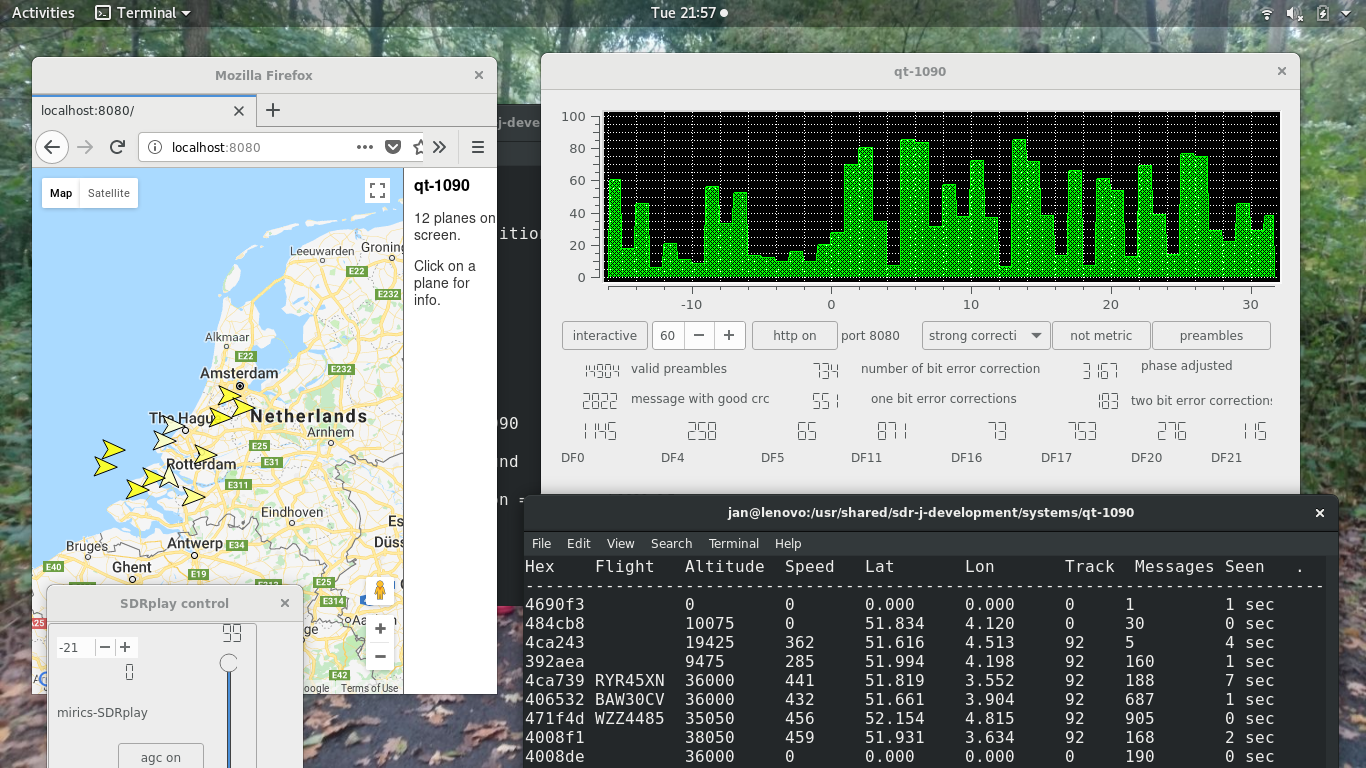
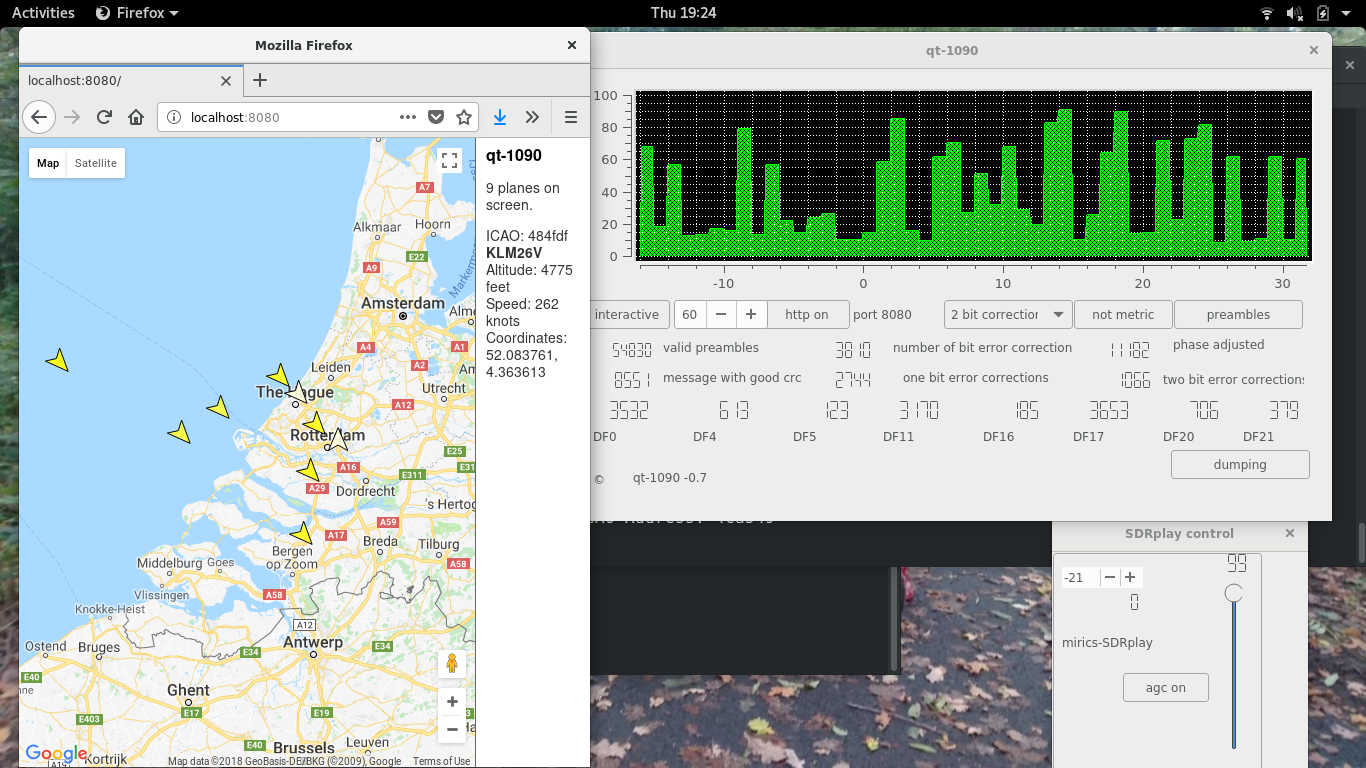
added simple dump facility

diff --git a/qt-1090.cpp b/qt-1090.cpp
@@ -79,14 +79,15 @@ int	i;
 	metric		= false;
 	interactive	= false;
 	interactive_ttl	= INTERACTIVE_TTL;
+	dumpfilePointer	= NULL;
 
 //	Allocate the "working" vector
-	data_len = DATA_LEN + (FULL_LEN - 1) * 4;
+	data_len	= DATA_LEN + (FULL_LEN - 1) * 4;
 	magnitudeVector	= new uint16_t [data_len / 2];
 
 //	Allocate the ICAO address cache.
 	icao_cache	= new icaoCache	();
-	aircrafts	= NULL;
+	planeList	= NULL;
 	interactive_last_update = 0;
 
 	screenTimer. setInterval (2000);
@@ -121,6 +122,8 @@ int	i;
 	connect (show_preamblesButton, SIGNAL (clicked (void)),
 		 this, SLOT (handle_show_preamblesButton (void)));
 
+	connect (dumpButton, SIGNAL (clicked (void)),
+	         this, SLOT (handle_dumpButton (void)));
 	pthread_create (&reader_thread,
 	                NULL,
 	                readerThreadEntryPoint,
@@ -423,7 +426,7 @@ bool	phaseCorrected = false;
  *	interface is enabled.
  */
 	      if (interactive || stat_http_requests > 0) 
-	         aircrafts = interactiveReceiveData (aircrafts, &mm);
+	         planeList = interactiveReceiveData (planeList, &mm);
 /*
  *	In non-interactive way, display messages on standard output.
  */
@@ -454,9 +457,11 @@ int16_t lbuf [DATA_LEN / 2];
 //
 //	Timer driven
 void	qt1090::updateScreen (void) {
-	   aircrafts	= removeStaleAircrafts (aircrafts, interactive_ttl);
+	   planeList	= removeStaleAircrafts (planeList,
+	                                        interactive_ttl,
+	                                        dumpfilePointer);
 	   if (interactive) 
-	      showPlanes (aircrafts, metric);
+	      showPlanes (planeList, metric);
 }
 //
 ///////////////////////////////////////////////////////////////////////
@@ -527,7 +532,7 @@ void	qt1090::handle_errorhandlingCombo (const QString &s) {
 	if (s == "no correction")
 	   handle_errors =  NO_ERRORFIX;
 	else
-	if (s == "normal correction")
+	if (s == "1 bit correction")
 	   handle_errors = NORMAL_ERRORFIX;
 	else
 	   handle_errors = STRONG_ERRORFIX;
@@ -577,7 +582,7 @@ void    qt1090::handleRequest (QHttpRequest *request,
 	stat_http_requests ++;
 
 	if (request -> path () == "/data.json")
-	   sendPlaneData (response, aircrafts);
+	   sendPlaneData (response, planeList);
 	else
 	if (request -> path () == "/")
 	   sendMap (response);
@@ -697,3 +702,23 @@ deviceHandler	*inputDevice	= NULL;
 	return new  deviceHandler ();
 }
 
+void	qt1090::handle_dumpButton (void) {
+
+	if (dumpfilePointer != 0) {
+	   fclose (dumpfilePointer);
+	   dumpfilePointer	= NULL;
+	   dumpButton	-> setText ("dump");
+	   return;
+	}
+
+	QString file = QFileDialog::getSaveFileName (this,
+	                                             tr ("Open file ..."),
+	                                             QDir::homePath (),
+	                                             tr ("txt data (*.txt)"));
+	file		= QDir::toNativeSeparators (file);
+	dumpfilePointer	= fopen (file. toLatin1 (). data (), "w");
+	if (dumpfilePointer != NULL)
+	   dumpButton	-> setText ("dumping");
+}
+
+	

diff --git a/aircraft-handler.cpp b/aircraft-handler.cpp
@@ -142,6 +142,10 @@ double cprDlonFunction (double lat, int isodd) {
 	seen		= time (NULL);
 	messages	= 0;
 	next		= NULL;
+	entryTime	= time (NULL);
+	lon_in		= 0.0;
+	lat_in		= 0.0;
+	altitude_in	= 0;
 }
 
 	aircraft::~aircraft (void) {}
@@ -217,6 +221,8 @@ void	aircraft::fillData (message *mm) {
 
 	if (mm -> msgtype == 0 ||
 	    mm -> msgtype == 4 || mm -> msgtype == 20) {
+	   if (this -> altitude_in == 0)
+	      this -> altitude_in = mm -> altitude;
 	   this -> altitude = mm -> altitude;
 	}
 	else
@@ -241,6 +247,10 @@ void	aircraft::fillData (message *mm) {
 //	the position.
 	      if (abs (this -> even_cprtime - this -> odd_cprtime) <= 10000) {
 	         decodeCPR ();
+	         if ((lat_in == 0) || (lon_in == 0)) {
+	           lat_in = lat;
+	           lon_in = lon;
+	         }
 	      }
 	   }	
 	   else
@@ -311,7 +321,8 @@ double rlat1 = AirDlat1 * (cprModFunction (j, 59) + lat1 / 131072);
 /* When in interactive mode If we don't receive new nessages within
  * wtime seconds we remove the aircraft from the list.
  */
-aircraft *removeStaleAircrafts (aircraft *list, int wtime) {
+aircraft *removeStaleAircrafts (aircraft *list,
+	                        int wtime, FILE *dumpfilePointer) {
 aircraft *currentPlane = list;
 aircraft *prev = NULL;
 time_t now = time(NULL);
@@ -321,7 +332,12 @@ time_t now = time(NULL);
 	      aircraft *next = currentPlane -> next;
 //	Remove the element from the linked list, be careful
 //	when removing the first element. */
+	      if ((currentPlane -> lon_in != 0) &&
+	          (currentPlane -> lat_in != 0)) 
+	         currentPlane -> showPlaneonExit (dumpfilePointer);
+	                 
 	      delete currentPlane;
+	   
 	      if (prev == NULL)
 	         list = next;
 	      else
@@ -350,13 +366,20 @@ int speed	= this -> speed;
 	        lat, lon, track, messages, (int)(now - seen));
 }
 
+void	aircraft:: showPlaneonExit (FILE *dumpfilePointer) {
+	if (dumpfilePointer != NULL) {
+	   std::string time_in	= ctime (&entryTime);
+	   const time_t currentTime = time (NULL);
+	   std::string time_out = ctime (&currentTime);
+	   fprintf (dumpfilePointer,
+	            "Plane  %-6s %-8s \n", hexaddr, flight);
+	   fprintf (dumpfilePointer, "%-9d %-7.03f %-7.03f  entered at %s",
+	            altitude_in, lat_in, lon_in, time_in. c_str ());
+	   fprintf (dumpfilePointer, "%-9d %-7.03f %-7.03f  left at %s \n",
+	            altitude, lat, lon, time_out. c_str ());
+	}
+}
 
-//static
-//int     getTermRows (void) {
-//        struct winsize w;
-//        ioctl (STDOUT_FILENO, TIOCGWINSZ, &w);
-//        return w. ws_row;
-//}
 
 #include	<stdlib.h>
 
@@ -393,7 +416,6 @@ int count = 0;
 	   count++;
 	}
 }
-
 
 QString	aircraft::toJson (void) {
 char buf [512];

diff --git a/qt-1090.h b/qt-1090.h
@@ -35,6 +35,7 @@
 #include	<QMessageBox>
 #include	<QCloseEvent>
 #include	<QTimer>
+#include	<stdio.h>
 #include	"qhttpserverfwd.h"
 #include	<qhttpserver.h>
 #include	<qhttprequest.h>
@@ -81,6 +82,7 @@ private:
 	int		correlationCounter;
 	bool		show_preambles;
 	int		bitstoShow;
+	FILE		*dumpfilePointer;
 public:
 	icaoCache	*icao_cache;
 	bool		check_crc;	/* Only display messages with good CRC. */
@@ -89,7 +91,7 @@ public:
 	int		debug;		/* Debugging mode. */
 
 //	Interactive mode */
-	aircraft	*aircrafts;
+	aircraft	*planeList;
 	long long interactive_last_update;  /* Last screen update in milliseconds */
 	void            sendMap         (QHttpResponse *);
         void            sendPlaneData   (QHttpResponse *, aircraft *);
@@ -114,7 +116,7 @@ private slots:
 	void	handleRequest		(QHttpRequest *,
 	                                        QHttpResponse *);
 	void	updateScreen		(void);
-
+	void	handle_dumpButton	(void);
 };
 
 #endif

diff --git a/aircraft-handler.h b/aircraft-handler.h
@@ -39,8 +39,8 @@ class	message;
 /* Structure used to describe an aircraft in iteractive mode. */
 class aircraft {
 public:
-	aircraft	(uint32_t);
-	~aircraft	(void);
+	aircraft		(uint32_t);
+	~aircraft		(void);
 	uint32_t addr;      /* ICAO address */
 	char hexaddr[7];    /* Printable ICAO address */
 	char flight[9];     /* Flight number */
@@ -62,11 +62,16 @@ public:
 	void    fillData	(message *mm);
 	void	decodeCPR	(void);
 	void	showPlane	(bool metric, time_t now);
+	void	showPlaneonExit	(FILE *);
 	QString	toJson		(void);
+//
+	time_t	entryTime;
+	double	lat_in, lon_in;
+	int	altitude_in;
 };
 
 aircraft *interactiveReceiveData	(aircraft *, message *);
-aircraft *removeStaleAircrafts		(aircraft *, int);
+aircraft *removeStaleAircrafts		(aircraft *, int, FILE *);
 void	showPlanes			(aircraft *, bool);
 QString	aircraftsToJson			(aircraft *);
 #endif

diff --git a/README.md b/README.md
@@ -191,6 +191,10 @@ intensive;
 * e	a push button switching between metrics and non metrics data in interactive mode;
 * f	a push button switching between "all preambles shown" and "preambles with good crc" shown. The distinction is in the color, green is "crc ok".
 
+The bottom line contains a button "dump", pushing this button causes
+some data to be written onto a file. This data described the entry and
+exit points of planes in the system.
+
 ----------------------------------------------------------------------------
 Using google maps
 ----------------------------------------------------------------------------
